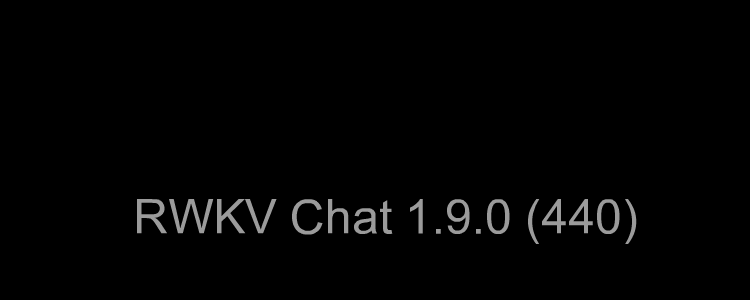
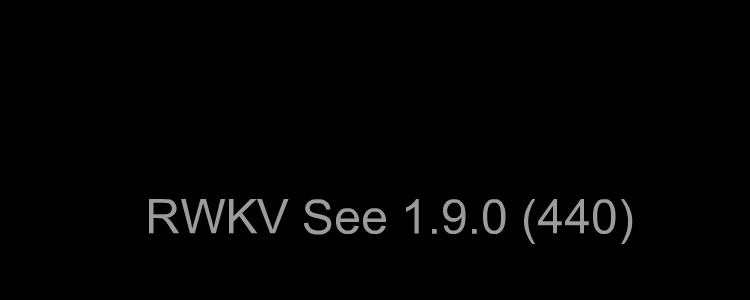
feat: Update debugger, model selector, and suggestions logic
Enabled thinking mode display in the debugger, added sorting to model selector pairs, and improved suggestion handling for WorldType.modrwkvV2. Also updated branding images and removed a stray statement in app state.

Changed region(s): [[0.184, 0.66, 0.8587, 0.81]]

diff --git a/lib/widgets/model_selector.dart b/lib/widgets/model_selector.dart
@@ -85,6 +85,9 @@ class ModelSelector extends ConsumerWidget {
                   .where((pair) {
                     return pair.$1 == "" || pair.$1 == P.rwkv.socName.q;
                   })
+                  .sorted((a, b) {
+                    return b.$1.length.compareTo(a.$1.length);
+                  })
                   .map((pair) {
                     return WorldGroupItem(e, socPair: pair);
                   });

diff --git a/lib/widgets/debugger.dart b/lib/widgets/debugger.dart
@@ -79,7 +79,7 @@ class Debugger extends ConsumerWidget {
     const showAtMainPage = false;
     const showPage = true;
     const showScreenWidth = false;
-    const showThinkingMode = false;
+    const showThinkingMode = true;
     const showDisableRemoteConfig = false;
     const showPreferredThemeMode = false;
     const showCustomTheme = false;

diff --git a/lib/state/rwkv.dart b/lib/state/rwkv.dart
@@ -142,6 +142,7 @@ extension $RWKVLoad on _RWKV {
       enableReasoning: enableReasoning,
       preferChinese: false,
       setPrompt: false,
+      thinkingMode: _thinkingMode.q,
     );
     await resetSamplerParams(enableReasoning: enableReasoning);
     await resetMaxLength(enableReasoning: enableReasoning);

diff --git a/lib/state/suggestion.dart b/lib/state/suggestion.dart
@@ -115,6 +115,8 @@ class _Suggestion {
               return s2;
             }
             return s2.take(5).toList();
+          case WorldType.modrwkvV2:
+            return [...config.seeReasoningQa, ...config.seeOcr].shuffled.take(5).toList();
           default:
             break;
         }

diff --git a/lib/state/app.dart b/lib/state/app.dart
@@ -249,7 +249,6 @@ extension _$App on _App {
   }
 
   FV _statusBarToLightMode() async {
-    qq;
     SystemChrome.setSystemUIOverlayStyle(systemOverlayStyleLight);
   }
 
